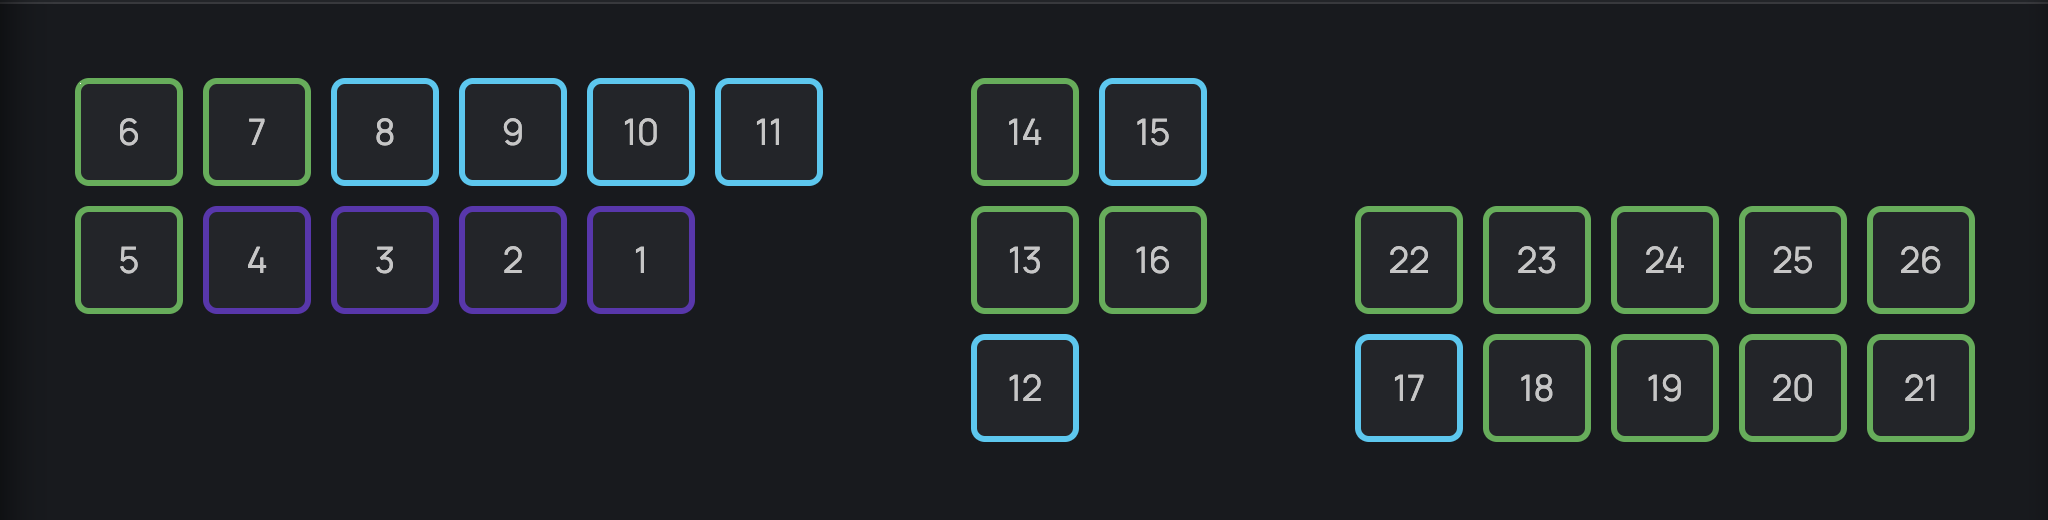
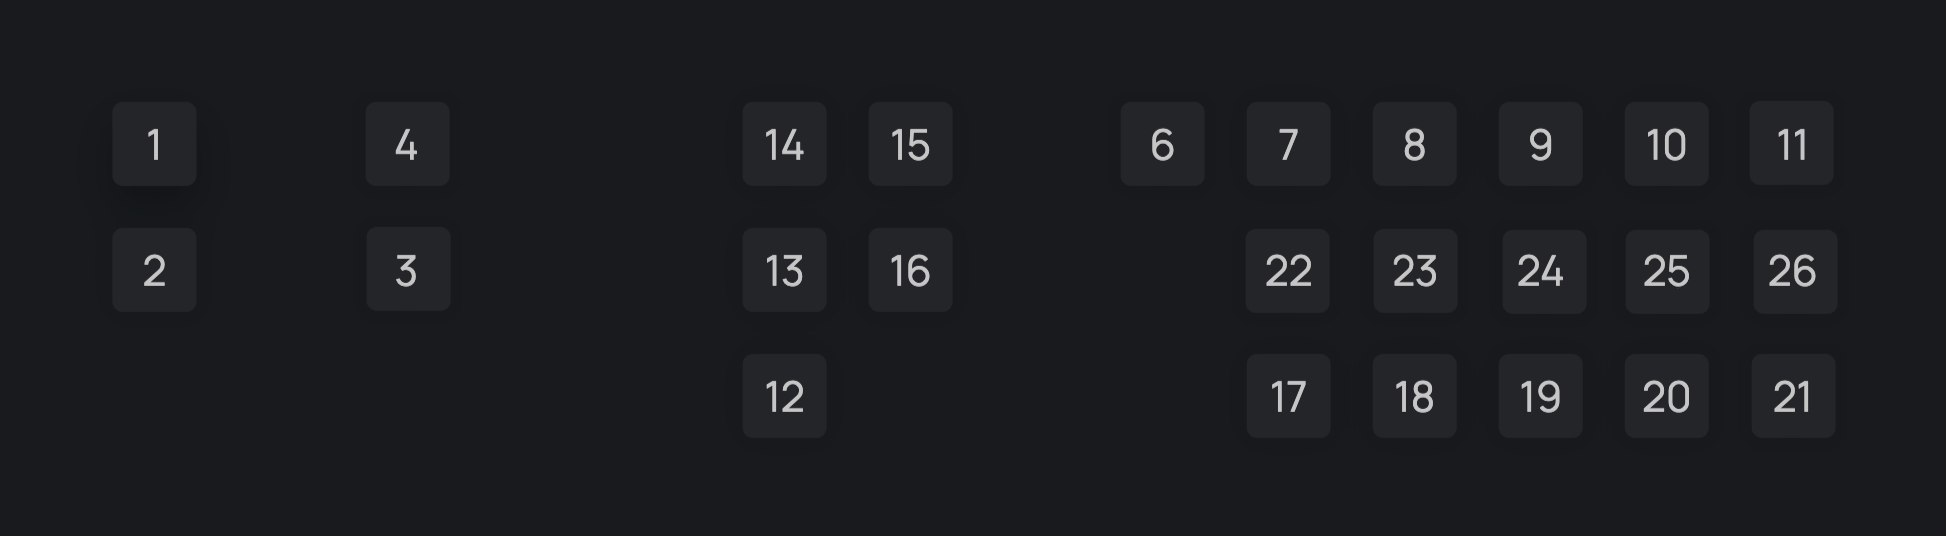
change port

diff --git a/src/main/java/kz/bot/mvp/storage/SeatStorage.java b/src/main/java/kz/bot/mvp/storage/SeatStorage.java
@@ -4,6 +4,7 @@ import kz.bot.mvp.models.Point;
 import kz.bot.mvp.models.Seat;
 import kz.bot.mvp.models.SeatDto;
 import kz.bot.mvp.models.SeatStatus;
+import lombok.extern.slf4j.Slf4j;
 import org.springframework.stereotype.Component;
 
 import java.time.LocalDateTime;
@@ -17,37 +18,37 @@ import java.util.stream.Collectors;
 
 import static java.time.LocalTime.now;
 
+@Slf4j
 @Component
 public class SeatStorage {
 
     private final static Map<Integer, SeatStatus> STORAGE = new ConcurrentHashMap<>();
     private final Map<Integer, Point> coordinates = new HashMap<>() {{
-        put(1, new Point(586, 205)); // 1
-        put(2, new Point(457, 205)); // 2
-        put(3, new Point(331, 205)); // 3
-        put(4, new Point(202, 205)); // 4
-        put(5, new Point(75, 205)); // 5
-        put(6, new Point(74, 78)); // 6
-        put(7, new Point(203, 78)); // 7
-        put(8, new Point(331, 78)); // 8
-        put(9, new Point(459, 78)); // 9
-        put(10, new Point(587, 78)); // 10
-        put(11, new Point(715, 78)); // 11
-        put(12, new Point(971, 333)); // 12
-        put(13, new Point(971, 206)); // 13
-        put(14, new Point(971, 78)); // 14
-        put(15, new Point(1099, 78)); // 15
-        put(16, new Point(1099, 206)); // 16
-        put(17, new Point(1355, 333)); // 17
-        put(18, new Point(1483, 333)); // 18
-        put(19, new Point(1611, 333)); // 19
-        put(20, new Point(1739, 333)); // 20
-        put(21, new Point(1867, 333)); // 21
-        put(22, new Point(1355, 206)); // 22
-        put(23, new Point(1483, 206)); // 23
-        put(24, new Point(1611, 206)); // 24
-        put(25, new Point(1739, 206)); // 25
-        put(26, new Point(1867, 206)); // 26
+        put(1, new Point(110, 100)); // 1
+        put(2, new Point(110, 223)); // 2
+        put(3, new Point(360, 223)); // 3
+        put(4, new Point(360, 100)); // 4
+        put(6, new Point(1120, 100)); // 6
+        put(7, new Point(1245, 100)); // 7
+        put(8, new Point(1370, 100)); // 8
+        put(9, new Point(1495, 100)); // 9
+        put(10, new Point(1620,100)); // 10
+        put(11, new Point(1745,100)); // 11
+        put(12, new Point(740, 350)); // 12
+        put(13, new Point(740, 223)); // 13
+        put(14, new Point(740, 100)); // 14
+        put(15, new Point(865, 100)); // 15
+        put(16, new Point(865, 223)); // 16
+        put(17, new Point(1245, 350)); // 17
+        put(18, new Point(1370, 350)); // 18
+        put(19, new Point(1495, 350)); // 19
+        put(20, new Point(1620, 350)); // 20
+        put(21, new Point(1745, 350)); // 21
+        put(22, new Point(1245, 223)); // 22
+        put(23, new Point(1370, 223)); // 23
+        put(24, new Point(1495, 223)); // 24
+        put(25, new Point(1620, 223)); // 25
+        put(26, new Point(1745, 223)); // 26
     }};
     private LocalDateTime received;
 

diff --git a/src/main/java/kz/bot/mvp/services/impl/InstagramMessageServiceImpl.java b/src/main/java/kz/bot/mvp/services/impl/InstagramMessageServiceImpl.java
@@ -24,7 +24,6 @@ public class InstagramMessageServiceImpl implements InstagramMessageService {
     private final MvpBot mvpBot;
     private final BotProperty botProperty;
     private Integer messageId;
-    private LocalDateTime prevMessageTime;
 
     @Autowired
     public InstagramMessageServiceImpl(MvpBot mvpBot, BotProperty botProperty) {
@@ -48,24 +47,11 @@ public class InstagramMessageServiceImpl implements InstagramMessageService {
         if (!unreadMessages.isEmpty()) {
             if (messageId != null) {
                 mvpBot.execute(deletePrevMessage());
-                alarmIfNotAnsweredAboutFiveMinutes();
             }
             final SendMessage unreadMessage = createUnreadMessage(String.format(TEXT, String.join("\n", unreadMessages)));
             unreadMessage.enableHtml(true);
             final Message execute = mvpBot.execute(unreadMessage);
             messageId = execute.getMessageId();
-            prevMessageTime = LocalDateTime.now(ZoneId.of("Asia/Almaty"));
-        }
-    }
-
-    private void alarmIfNotAnsweredAboutFiveMinutes() throws TelegramApiException {
-        if (prevMessageTime != null) {
-            final LocalDateTime now = LocalDateTime.now(ZoneId.of("Asia/Almaty"));
-            if (prevMessageTime.plusMinutes(7).isBefore(now)) {
-                final SendMessage unreadMessage = createUnreadMessage("@slimshadyer88\nНе ответили в инстаграм в течении 7 минут");
-                unreadMessage.enableHtml(true);
-                mvpBot.execute(unreadMessage);
-            }
         }
     }
 

diff --git a/src/main/java/kz/bot/mvp/polling/MvpBot.java b/src/main/java/kz/bot/mvp/polling/MvpBot.java
@@ -14,6 +14,7 @@ import org.telegram.telegrambots.meta.api.objects.Update;
 import org.telegram.telegrambots.meta.exceptions.TelegramApiException;
 
 import java.util.List;
+
 @Slf4j
 @Component
 public class MvpBot extends TelegramLongPollingBot {
@@ -46,17 +47,13 @@ public class MvpBot extends TelegramLongPollingBot {
     @Override
     public void onUpdateReceived(Update update) {
         if (update.hasMessage() && update.getMessage().hasText()) {
-            final String userName = update.getMessage().getFrom().getUserName();
-            final Long chatId = update.getMessage().getChatId();
             final String text = update.getMessage().getText();
 //            updateChat(userName, chatId, text);
-            log.info(text);
-            Handler handler = handlers.stream().filter(it -> it.isSuitable(text)).findFirst().orElseThrow();
-            if (!handler.isForAdmin()) {
-                processMessage(update, handler);
-            } else if (userName.equalsIgnoreCase("zxcoder")) {
-                processMessage(update, handler);
+            Handler handler = handlers.stream().filter(it -> it.isSuitable(text)).findFirst().orElse(null);
+            if (handler == null) {
+                return;
             }
+            processMessage(update, handler);
         }
     }
 

diff --git a/src/main/java/kz/bot/mvp/models/Seat.java b/src/main/java/kz/bot/mvp/models/Seat.java
@@ -11,14 +11,14 @@ public class Seat {
     private SeatStatus status;
     private @NonNull Point start;
 
-    public Seat(int number, SeatStatus status, @NonNull Point start) {
+    public Seat(int number, @NonNull SeatStatus status, @NonNull Point start) {
         this.number = number;
         this.status = status;
         this.start = start;
     }
 
     public Color getColor() {
-        if (status.equals(SeatStatus.BUSY)) {
+        if (this.status == SeatStatus.BUSY) {
             return new Color(94, 53, 177, 255);
         } else {
             return new Color(76, 175, 80, 255);

diff --git a/src/main/java/kz/bot/mvp/utils/ImageUtil.java b/src/main/java/kz/bot/mvp/utils/ImageUtil.java
@@ -18,7 +18,7 @@ import java.util.List;
 @Component
 public class ImageUtil {
 
-    private final static int LINE_HEIGHT = 108;
+    private final static int LINE_HEIGHT = 88;
     private final static int LINE_WIDTH = 8;
 
     public static BufferedImage copyImage(BufferedImage source) {

diff --git a/src/main/java/kz/bot/mvp/handlers/Handler.java b/src/main/java/kz/bot/mvp/handlers/Handler.java
@@ -13,8 +13,4 @@ public interface Handler {
     default boolean isSuitable(String text) {
         return getUserCommands().stream().anyMatch(it -> it.equalsIgnoreCase(text));
     }
-
-    default boolean isForAdmin() {
-        return false;
-    }
 }
